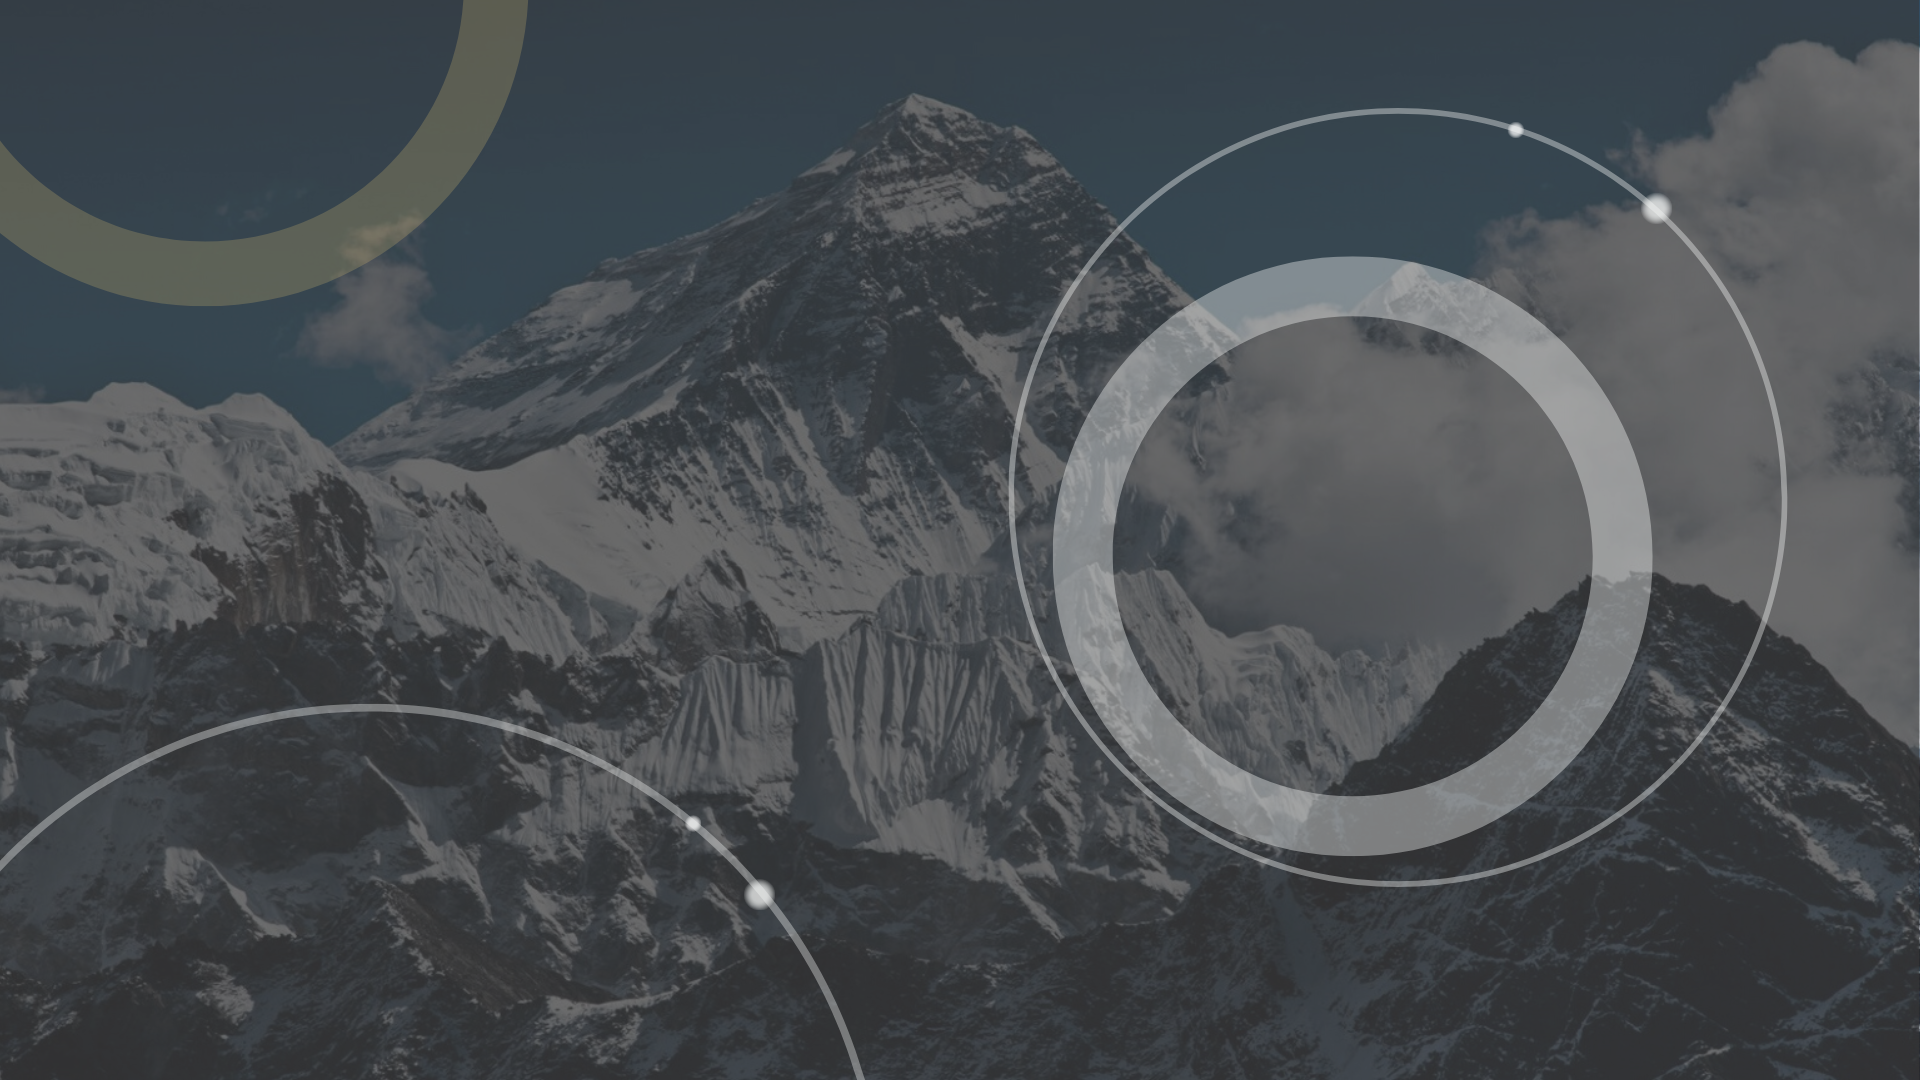
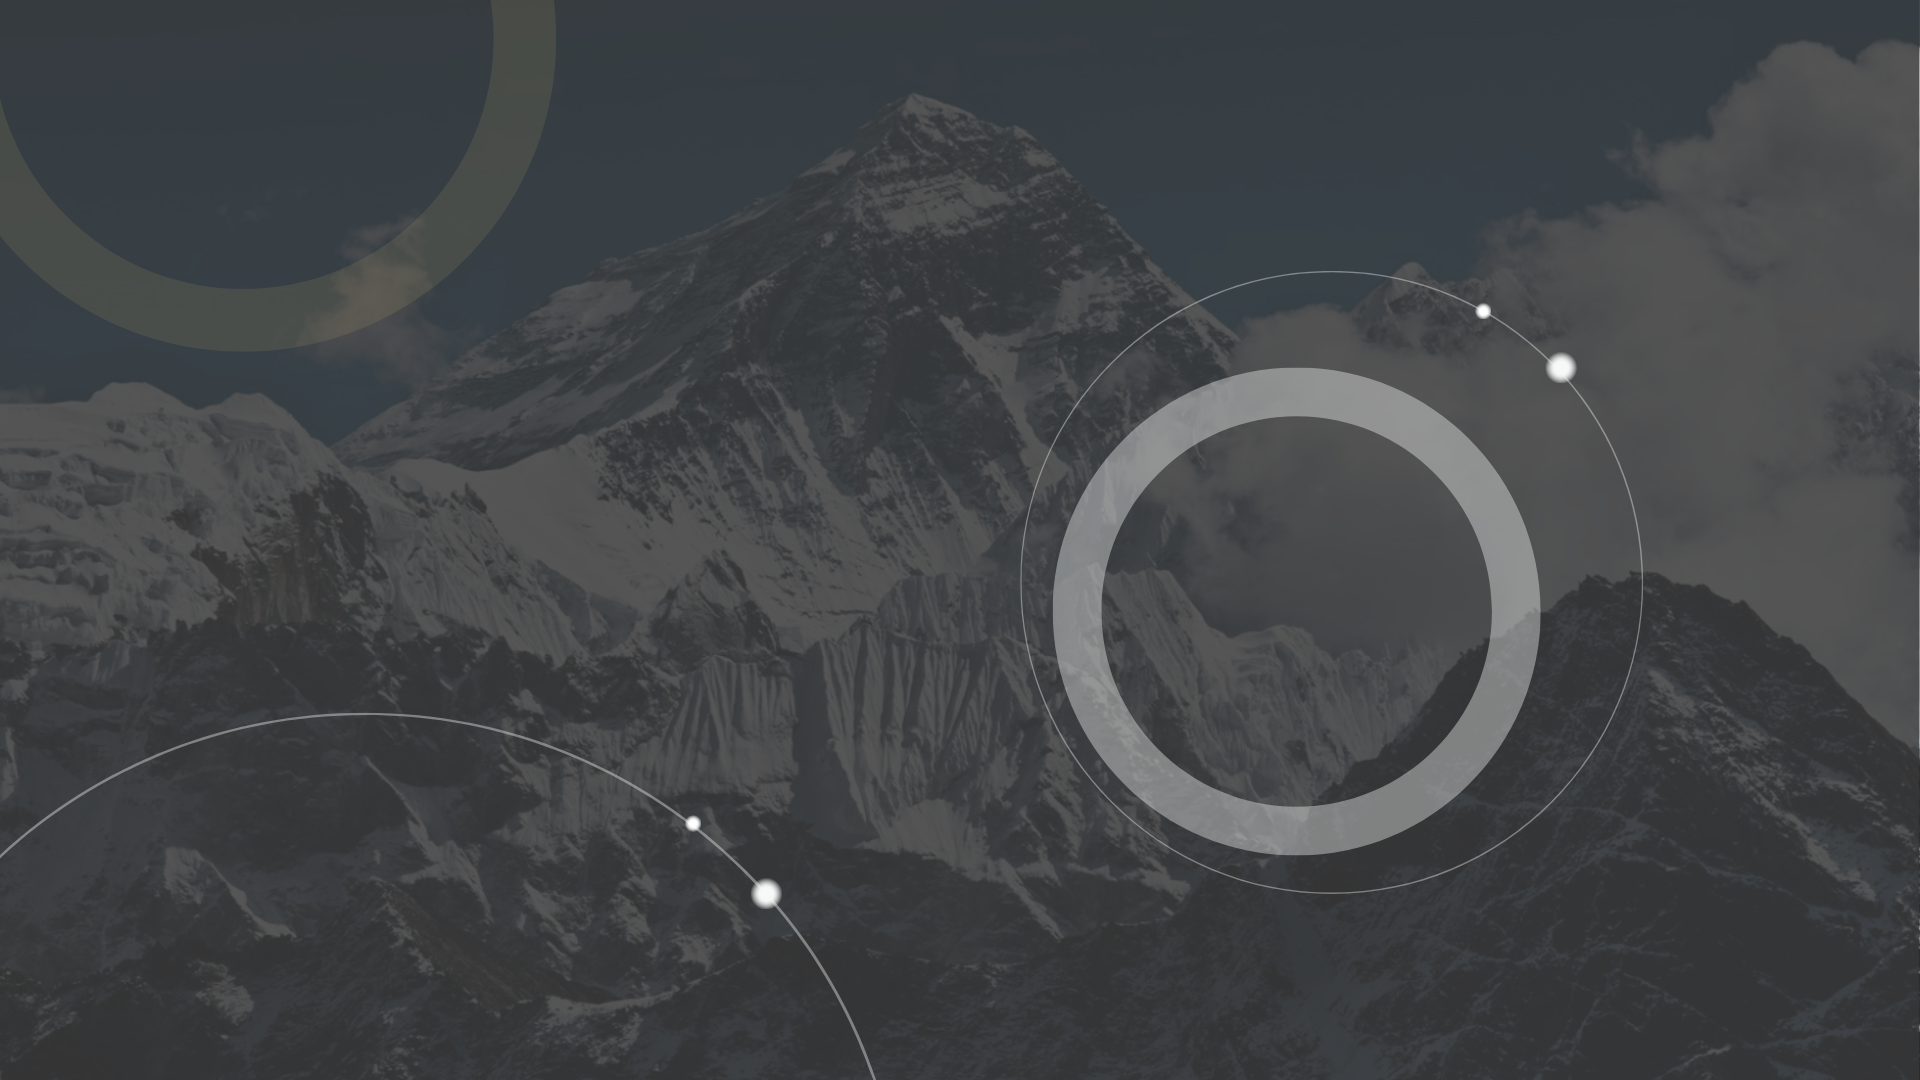
style: troca background e tamanho do title

diff --git a/src/components/Header.js b/src/components/Header.js
@@ -7,8 +7,8 @@ function Header() {
   return(
     <header className="header-container">
       <div className="title-container ms-5">
-        <h1 className="fs-4 my-0">Luiz Felipe Pereira</h1>
-        <h2 className="fs-5 my-0">Front-End Dev</h2>
+        <h1 className="fs-5 my-0">Luiz Felipe Pereira</h1>
+        <h2 className="fs-6 my-0">Front-End Dev</h2>
       </div>
       <nav className="me-5 nav-container">
         <div className={ pathname === '/' ? "me-5 link-container" : "me-5"}>

diff --git a/src/style/Home.css b/src/style/Home.css
@@ -1,7 +1,7 @@
 .main-home-page {
   background-size: cover;
   background-position: center;
-  background-image: url('../images/portfolioBackground2.png');
+  background-image: url('../images/portfolioBackground.png');
   height: 100vh;
   width: 100vw;
 }
